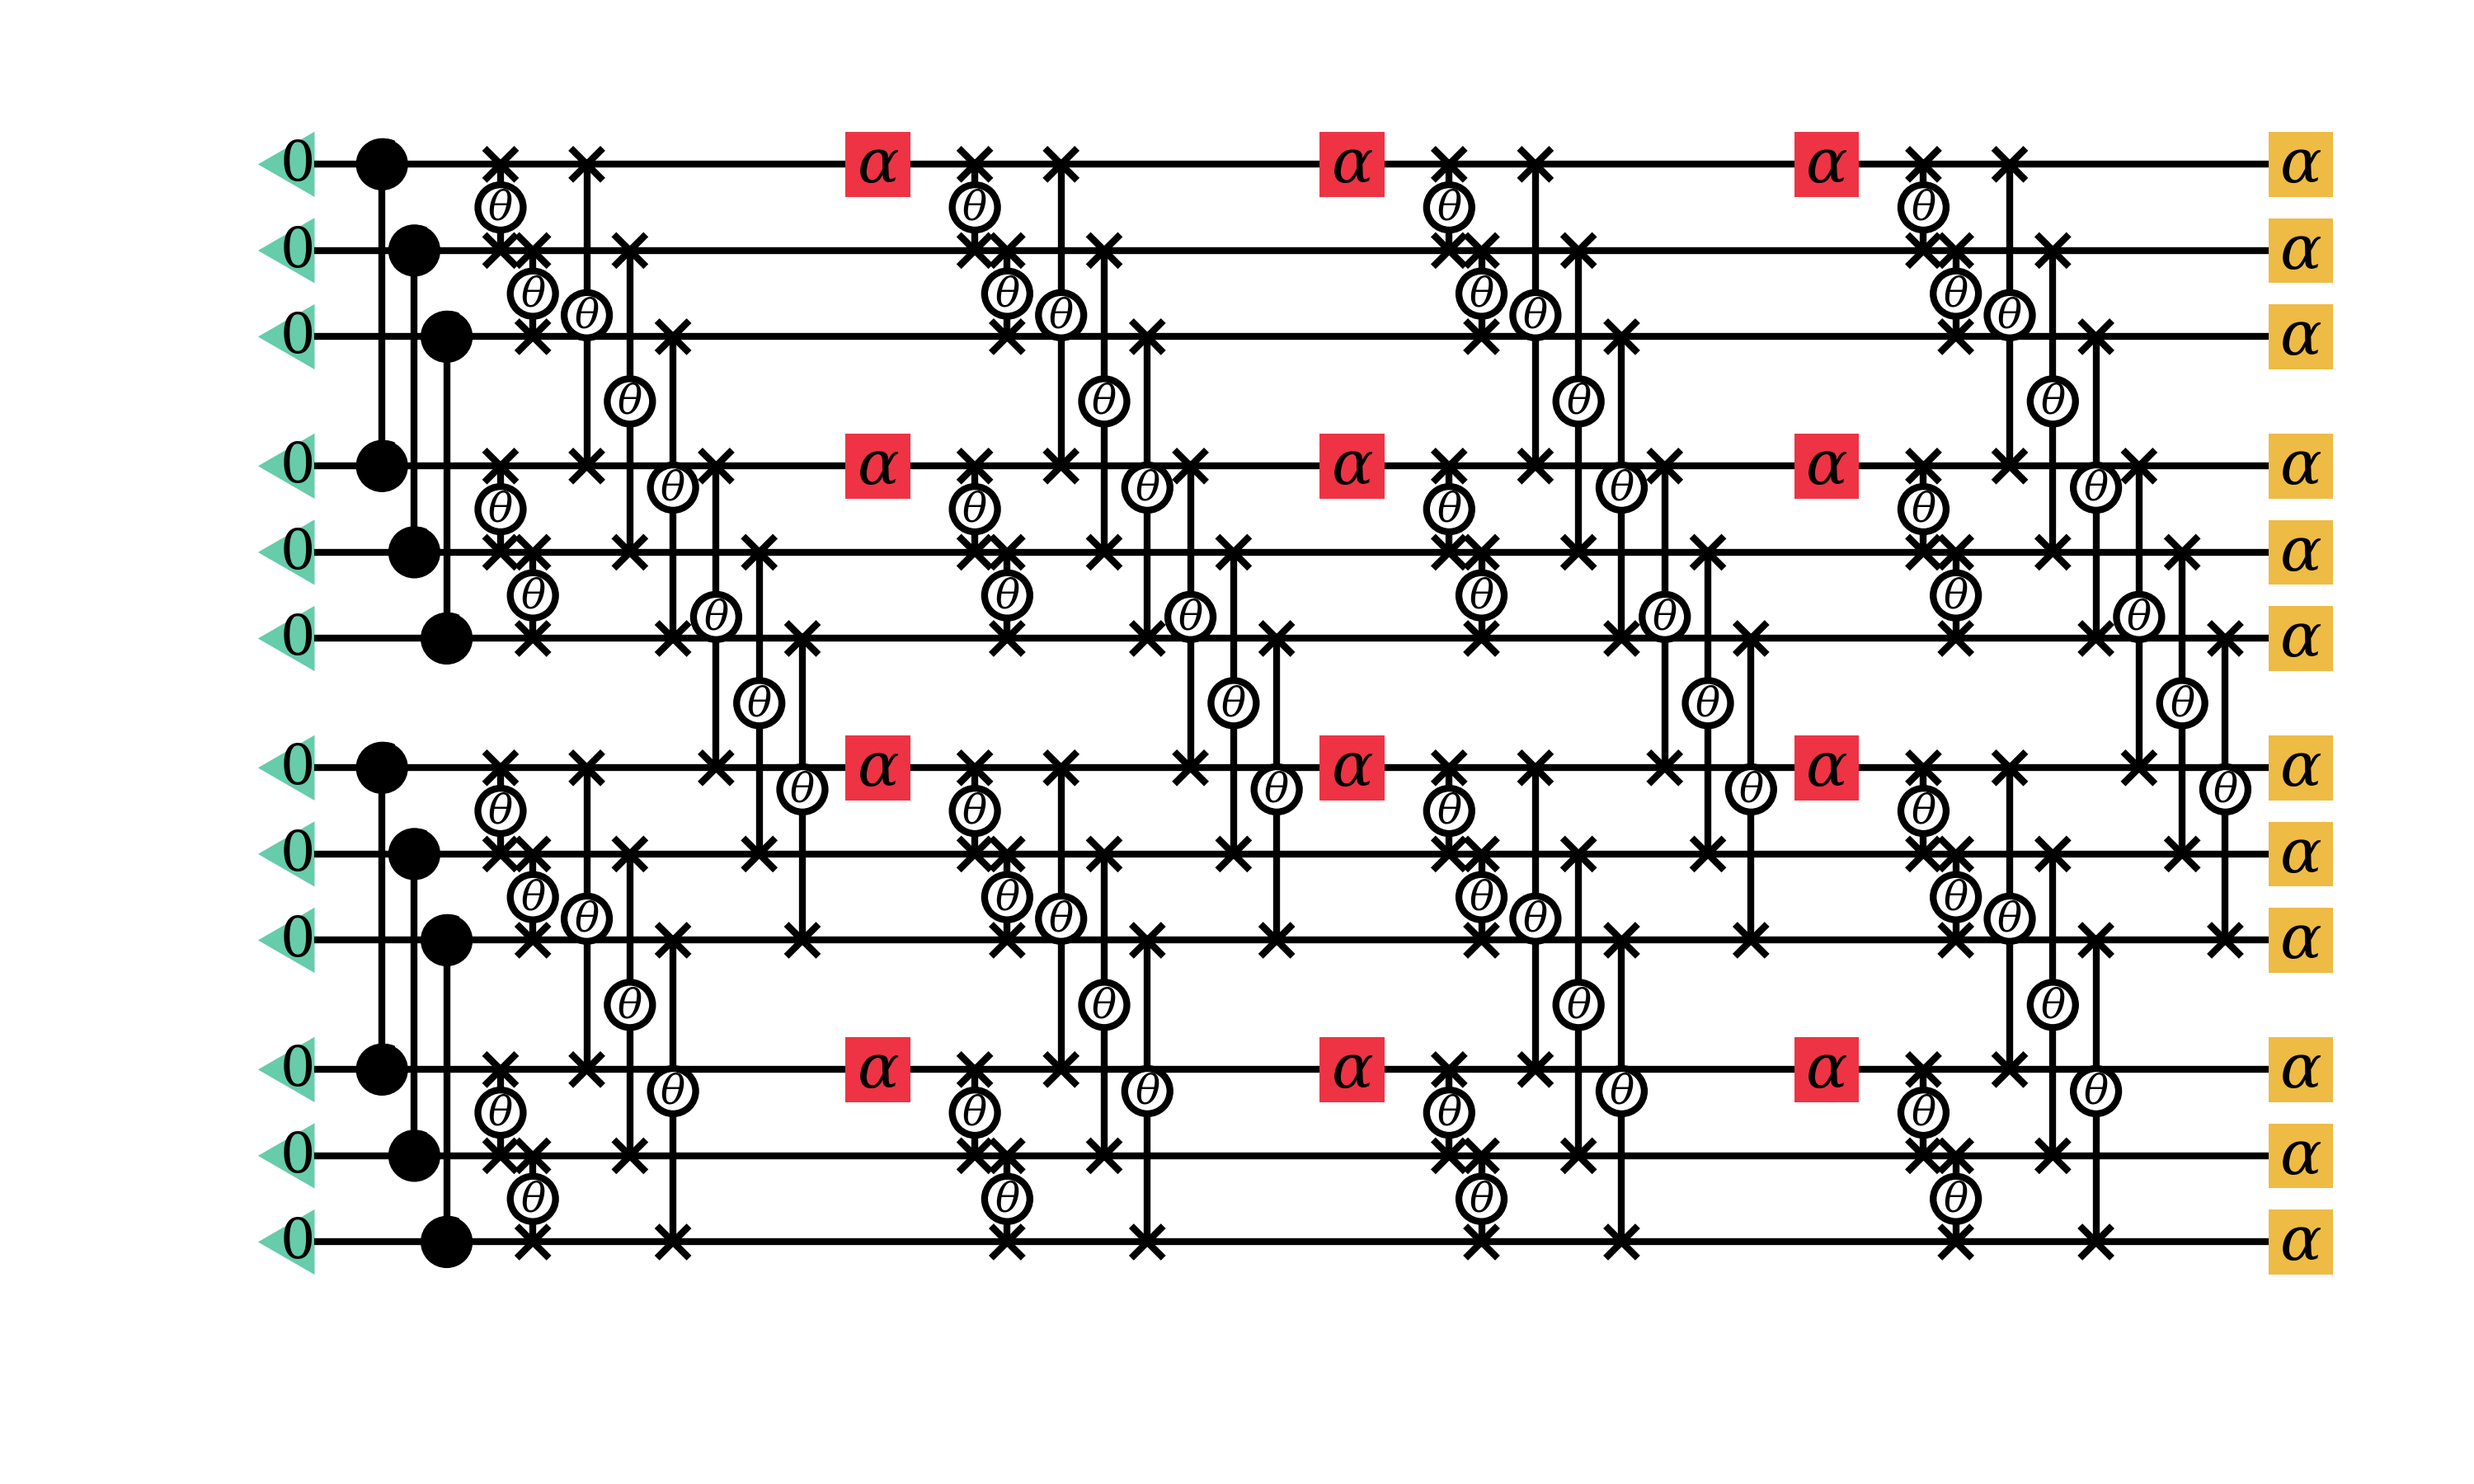
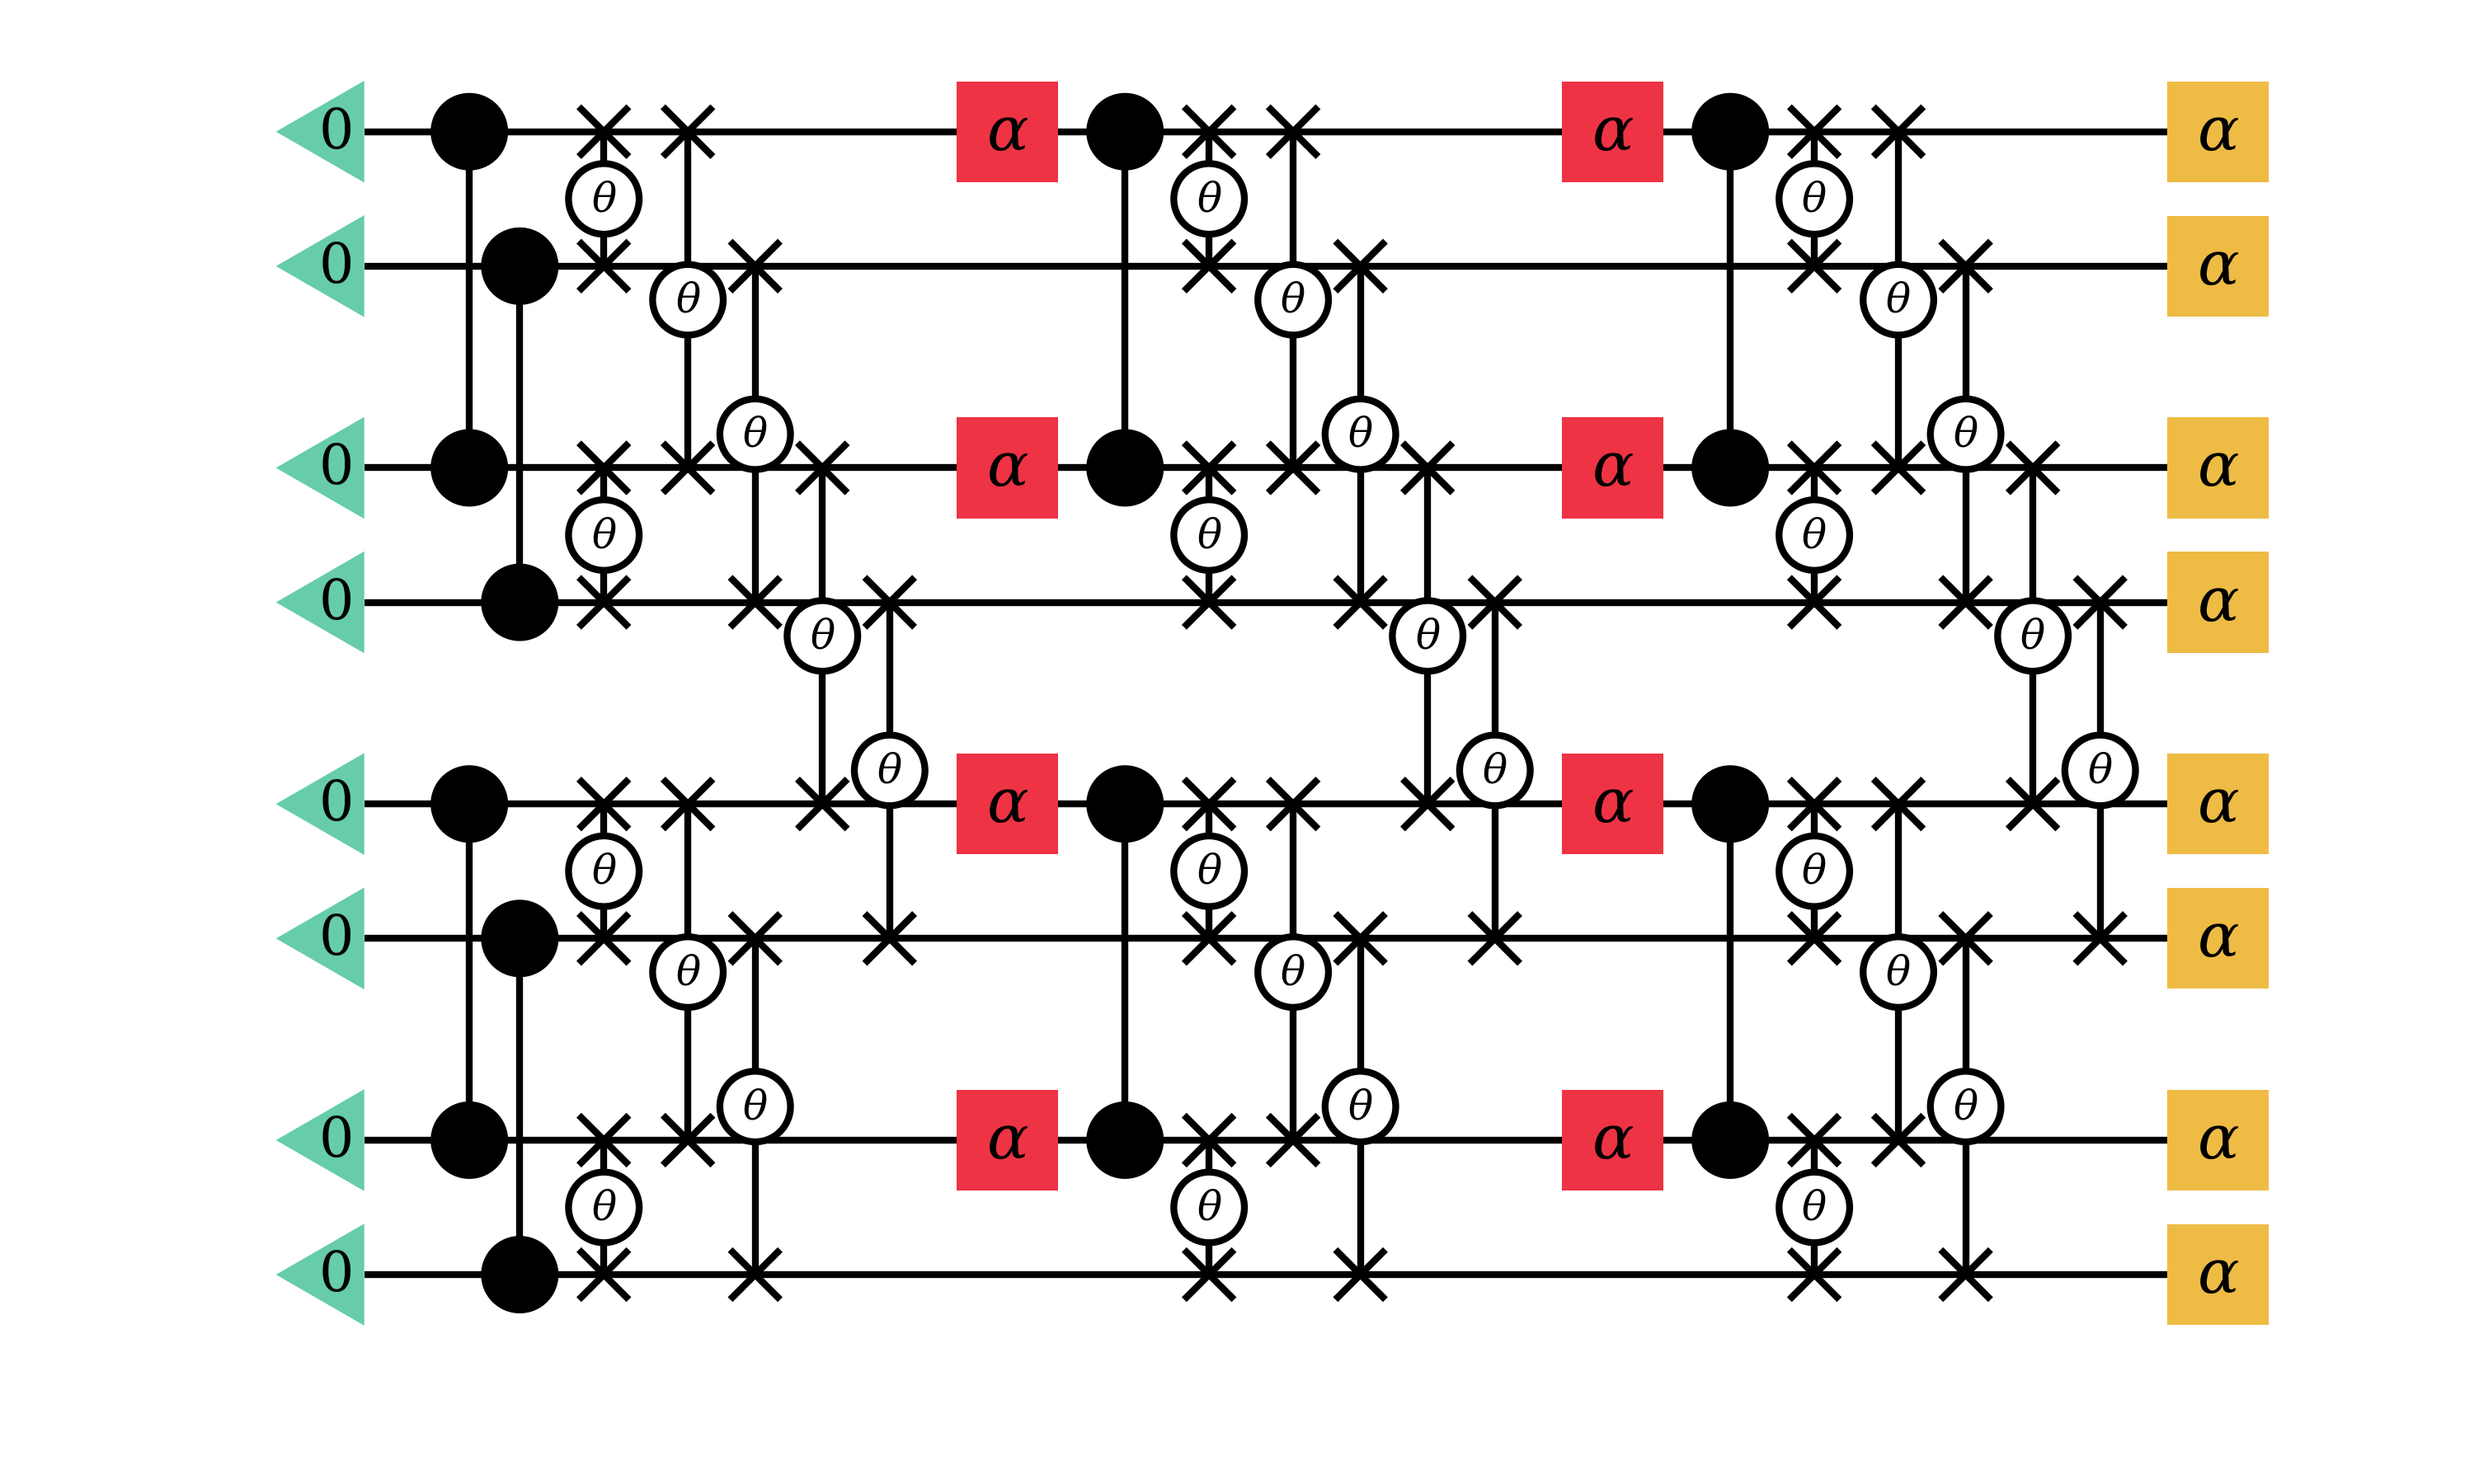
update docs

Changed region(s): [[0.093, 0.0311, 0.961, 0.9022]]

diff --git a/docs/images/plot.py b/docs/images/plot.py
@@ -41,10 +41,10 @@ class PLT(object):
     def j1j2(self, tp="png"):
         basis=r"$\alpha$"
         Ny = 4
-        Nv = 2
+        Nv = 1
         Ng = Nv+1
         num_bit = Ny*Ng
-        Nx = 6
+        Nx = 4
         handler = QuantumCircuit(num_bit=num_bit, locs=-np.append([0], np.cumsum(([0.8]*Nv+[1.2])*Ny)[:-1]), lw=2)
         
         with NoBoxPlt(figsize=(10,6), filename="j1j2chain.%s"%tp) as plt:
@@ -90,5 +90,73 @@ class PLT(object):
             handler.x -= 0.7
             for i in range(num_bit):
                 measure(handler, i, basis)
+
+    def j1j244(self, tp="png"):
+        basis=r"$\alpha$"
+        Ny = 4
+        Nv = 1
+        Ng = Nv+1
+        num_bit = Ny*Ng
+        Nx = 4
+        handler = QuantumCircuit(num_bit=num_bit, locs=-np.append([0], np.cumsum(([0.8]*Nv+[1.2])*Ny)[:-1]), lw=2)
+        box = NodeBrush("box", ls='--', size='small', edgecolor='#FF0000')
+        
+        with NoBoxPlt(figsize=(12,6), filename="j1j2chain44.%s"%tp) as plt:
+            handler.x -= 0.3
+            for i in range(num_bit):
+                init(handler, i)
+            handler.x += 0.8
             
+            for k in range(Ng):
+                for i in range(0,Ny,2):
+                    singlet_easy(handler, i*Ng+k,i*Ng+Ng+k)
+                handler.x+=0.3
+                    
+            for i in range(Nx-Nv):
+                if i!=0:
+                    for j in range(0,Ny,2):
+                        singlet_easy(handler, j*Ng,j*Ng+Ng)
+                    handler.x+=0.3
+ 
+                handler.x+=0.5
+                if i==0:
+                    with handler.block(slice(0, num_bit-1), pad_x=0, pad_y = 0.1) as b:
+                        for j in range(Nv):
+                            for k in range(Ny):
+                                swap(handler, k*Ng+j, k*Ng+j+1)
+                            handler.x += 0.3
+
+                        handler.x+=0.2
+                        for k in range(Ng):
+                            for j in range(0,Ny):
+                                swap(handler, j*Ng+k, (j+1)%Ny*Ng+k)
+                                handler.x+=0.4
+                        handler.x-=0.4
+                else:
+                    for j in range(Nv):
+                        for k in range(Ny):
+                            swap(handler, k*Ng+j, k*Ng+j+1)
+                        handler.x += 0.3
+
+                    handler.x+=0.2
+                    for k in range(Ng):
+                        for j in range(0,Ny):
+                            swap(handler, j*Ng+k, (j+1)%Ny*Ng+k)
+                            handler.x+=0.4
+                        handler.x-=0.4
+                handler.x+=0.7
+                b[0].text(r"$\times d$", "top")
+ 
+                handler.x+=0.3
+                for k in range(Ny):
+                    if i!=Nx-Nv-1:
+                        m = measure_reset(handler, k*Ng, basis)
+                handler.x += 1.0
+
+            handler.x -= 0.7
+            for i in range(num_bit):
+                measure(handler, i, basis)
+
+            box >> (slice(5.5,16.5), slice(-5,-1.5))
+           
 fire.Fire(PLT())

diff --git a/README.md b/README.md
@@ -1,3 +1,9 @@
-# Tensor Networks
+# Quantum Projected Entangled Pair of States
 
-Its graph representation of contraction.
+![](docs/images/j1j2chain44.png)
+
+## To Run
+To run a toy example of j1j2 model of size 4 x 4, type
+```bash
+$ julia runner.jl j1j2 4 4
+```
